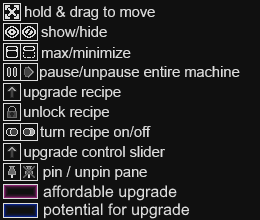
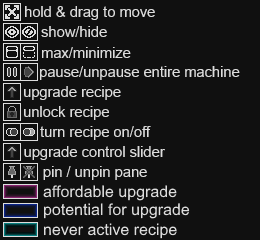
New glow added to legend.

Changed region(s): [[0.0, 0.0, 0.9231, 1.0]]

diff --git a/Historian/PanesData.js b/Historian/PanesData.js
@@ -923,7 +923,7 @@ function preprocessPaneData()
 	iconLegendPane.independent = true;
 	iconLegendPane.growth = 0;
 	iconLegendPane.growthX = 110;
-	iconLegendPane.growthY = 222;
+	iconLegendPane.growthY = 242;
 	iconLegendPane.customDraw = function (ctx)
 	{
 		ctx.save();
